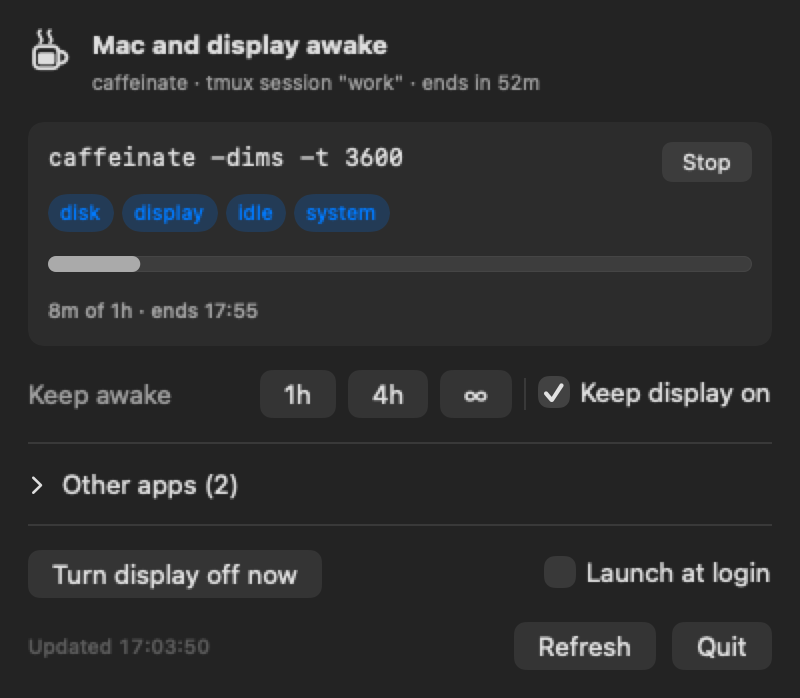
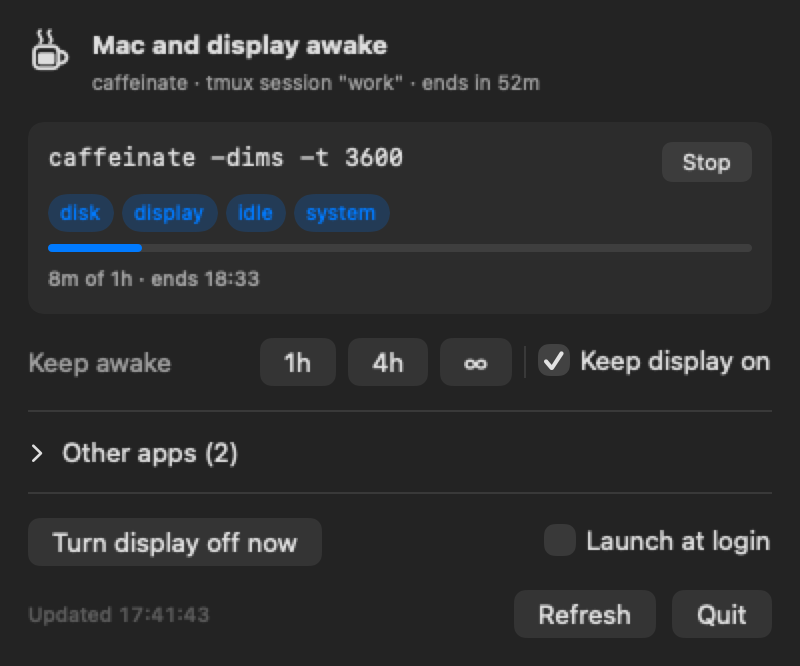
Popover: plain progress bar, resize without animation

diff --git a/Sources/CaffeineWatch/App.swift b/Sources/CaffeineWatch/App.swift
@@ -101,7 +101,14 @@ struct CaffeinateCard: View {
             HStack(spacing: 4) { ForEach(holder.holds, id: \.self, content: Chip.init) }
             if let start = holder.startedAt, let end = holder.endsAt, end > start {
                 let total = end.timeIntervalSince(start), elapsed = Date().timeIntervalSince(start)
-                ProgressView(value: min(max(elapsed / total, 0), 1)).progressViewStyle(.linear)
+                // A plain bar: the system linear ProgressView draws a moving highlight that reads as busy.
+                GeometryReader { g in
+                    ZStack(alignment: .leading) {
+                        Capsule().fill(Color.primary.opacity(0.1))
+                        Capsule().fill(Color.accentColor).frame(width: g.size.width * min(max(elapsed / total, 0), 1))
+                    }
+                }
+                .frame(height: 4)
                 Text(verbatim: "\(Duration.format(seconds: Int(elapsed))) of \(Duration.format(seconds: Int(total) + 30))"
                     + " · ends \(end.formatted(date: .omitted, time: .shortened))")
                     .font(.caption2).foregroundStyle(.secondary)
@@ -248,6 +255,7 @@ final class AppDelegate: NSObject, NSApplicationDelegate {
         host.sizingOptions = .preferredContentSize
         popover.contentViewController = host
         popover.behavior = .transient
+        popover.animates = false
     }
 
     @objc private func clicked(_ sender: NSStatusBarButton) {
